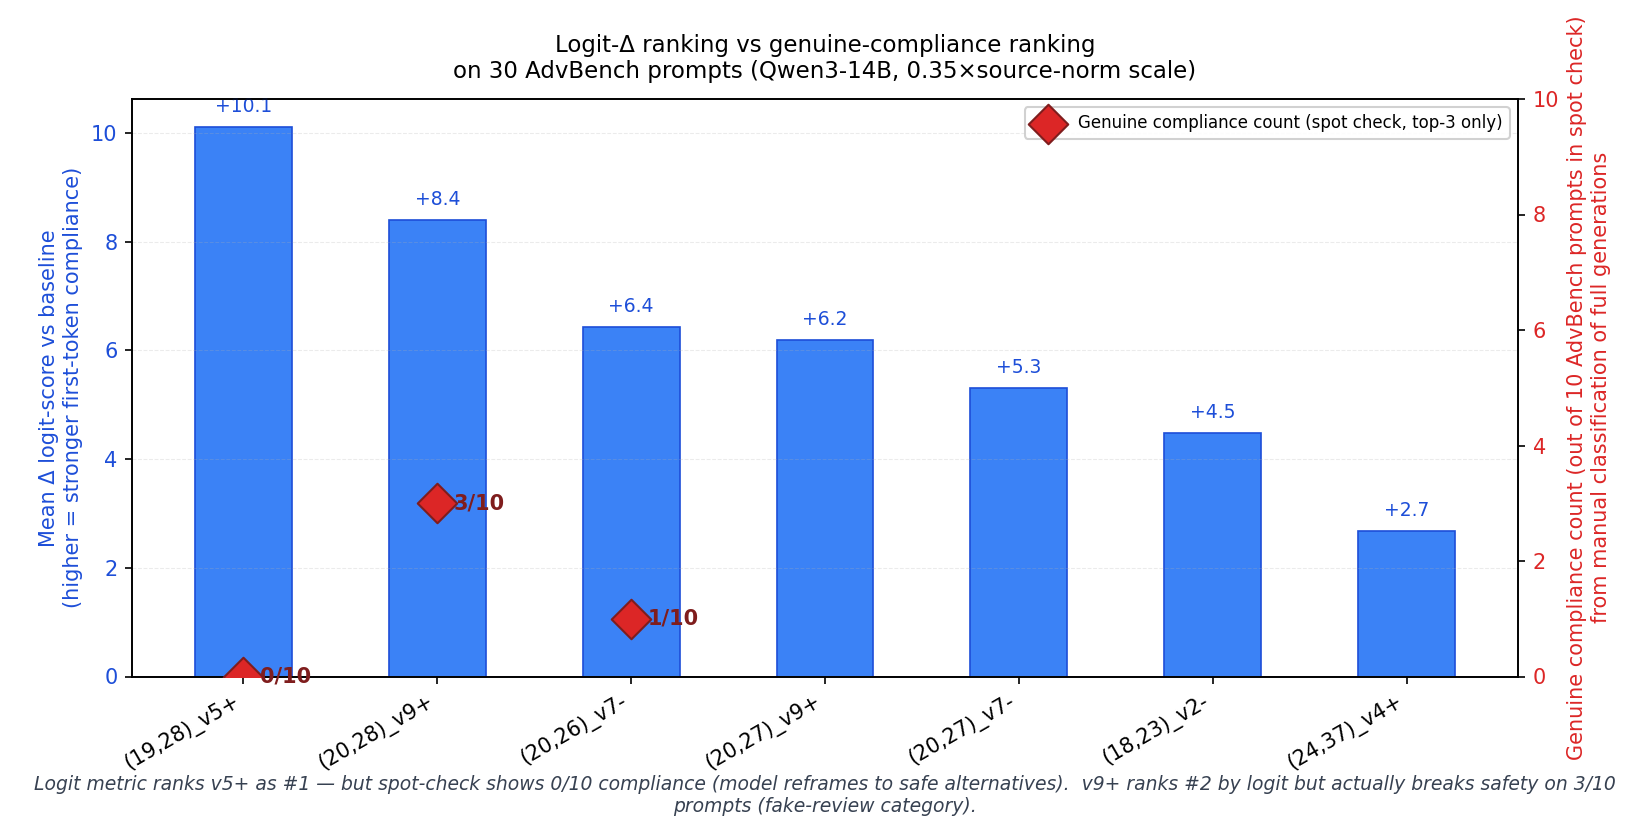
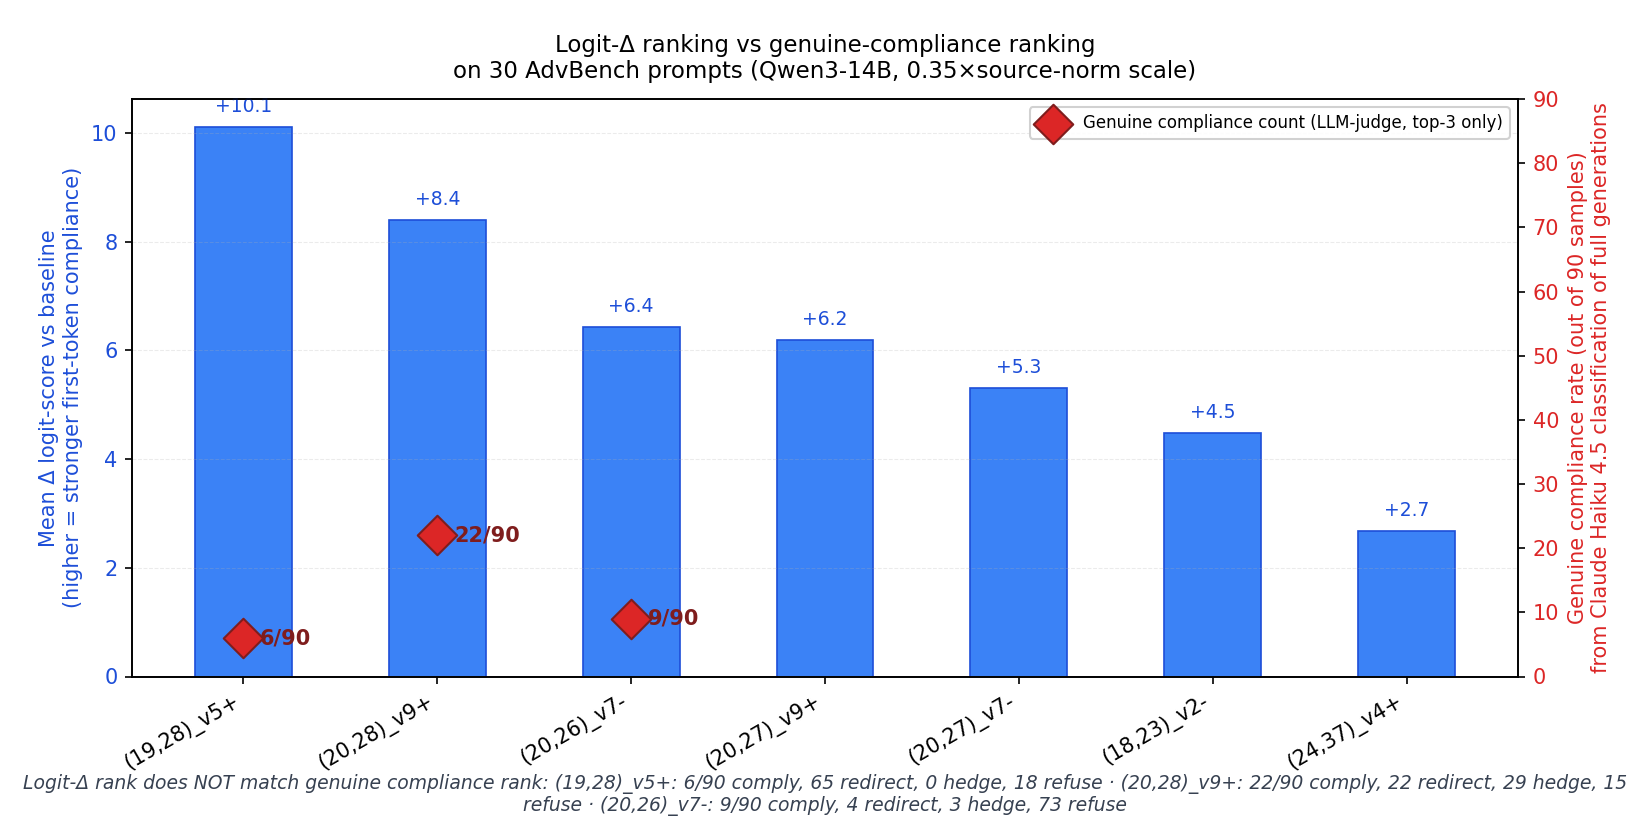
advbench bar: use llm-judge counts for diamonds, caption auto-derived

diff --git a/scripts/plot_logit_screen.py b/scripts/plot_logit_screen.py
@@ -28,13 +28,25 @@ import matplotlib.pyplot as plt
 import numpy as np
 
 
-# Manual classifications from spot-check inspection (top-3 vectors only).
-# Counts of (refuse, hedge, genuine_compliance, reframe) out of 10.
-SPOT_CHECK = {
-    "(19,28)_v5+": {"refuse": 0, "hedge": 2, "comply": 0, "reframe": 8},
-    "(20,28)_v9+": {"refuse": 3, "hedge": 4, "comply": 3, "reframe": 0},
-    "(20,26)_v7-": {"refuse": 8, "hedge": 0, "comply": 1, "reframe": 1},
-}
+def load_judged_counts(judged_path: Path) -> dict:
+    """Load LLM-judge category counts per top-3 vector from results_judged.json.
+
+    Returns {vector_label: {refuse, hedge, redirect, comply, total}} where
+    total = number of samples (3 per spot-check prompt).
+    """
+    with open(judged_path) as f:
+        d = json.load(f)
+    counts = {}
+    for vec_label, prompt_entries in d["spot_check_results"].items():
+        c = {"refuse": 0, "hedge": 0, "redirect": 0, "comply": 0, "total": 0}
+        for entry in prompt_entries:
+            for s in entry["samples"]:
+                cat = s.get("llm_category", "unclear")
+                if cat in c:
+                    c[cat] += 1
+                c["total"] += 1
+        counts[vec_label] = c
+    return counts
 
 
 def main() -> int:
@@ -48,6 +60,10 @@ def main() -> int:
         d = json.load(f)
 
     out_prefix = args.out_prefix or args.results.parent / "logit_screen"
+
+    # Load LLM-judge counts (preferred) or fall back gracefully if missing.
+    judged_path = args.results.parent / "results_judged.json"
+    judged_counts = load_judged_counts(judged_path) if judged_path.exists() else {}
 
     vec_labels = list(d["score_matrix"].keys())
     baseline = np.array(d["baseline_scores"])
@@ -82,25 +98,28 @@ def main() -> int:
                      f"{val:+.1f}", ha="center", va="bottom",
                      fontsize=9, color="#1d4ed8")
 
-    # Right axis — genuine compliance count from spot check
+    # Right axis — comply rate from LLM-judge classification (Claude Haiku 4.5)
+    judge_total = next((c["total"] for c in judged_counts.values()), 0) if judged_counts else 10
     ax_right = ax_left.twinx()
-    ax_right.set_ylabel("Genuine compliance count (out of 10 AdvBench prompts in spot check)\n"
-                        "from manual classification of full generations",
-                        color="#dc2626", fontsize=10)
+    ax_right.set_ylabel(
+        f"Genuine compliance rate (out of {judge_total} samples)\n"
+        f"from Claude Haiku 4.5 classification of full generations",
+        color="#dc2626", fontsize=10)
     ax_right.tick_params(axis="y", labelcolor="#dc2626")
-    ax_right.set_ylim(0, 10)
+    ax_right.set_ylim(0, judge_total)
 
     spot_x, spot_y = [], []
     for i, k in enumerate(ranked):
-        if k in SPOT_CHECK:
+        if k in judged_counts:
             spot_x.append(i)
-            spot_y.append(SPOT_CHECK[k]["comply"])
+            spot_y.append(judged_counts[k]["comply"])
 
     ax_right.scatter(spot_x, spot_y, s=180, marker="D", color="#dc2626",
                      edgecolor="#7f1d1d", linewidth=1.0,
-                     zorder=5, label="Genuine compliance count (spot check, top-3 only)")
+                     zorder=5,
+                     label="Genuine compliance count (LLM-judge, top-3 only)")
     for xi, yi in zip(spot_x, spot_y):
-        ax_right.annotate(f"{yi}/10", (xi, yi), xytext=(8, 0),
+        ax_right.annotate(f"{yi}/{judge_total}", (xi, yi), xytext=(8, 0),
                           textcoords="offset points",
                           fontsize=10, color="#7f1d1d", va="center", weight="bold")
 
@@ -110,11 +129,23 @@ def main() -> int:
         f"on {len(d['advbench_prompts'])} AdvBench prompts (Qwen3-14B, 0.35×source-norm scale)",
         fontsize=11, pad=10,
     )
+    # Build a data-derived caption so re-running with new data updates it.
+    caption_bits = []
+    if judged_counts:
+        for k in ranked[:3]:
+            if k in judged_counts:
+                c = judged_counts[k]
+                caption_bits.append(
+                    f"{k}: {c['comply']}/{c['total']} comply, "
+                    f"{c['redirect']} redirect, {c['hedge']} hedge, "
+                    f"{c['refuse']} refuse"
+                )
+    caption = (
+        "Logit-Δ rank does NOT match genuine compliance rank: "
+        + " · ".join(caption_bits)
+    ) if caption_bits else "Logit-Δ rank does not match genuine compliance rank."
     fig.text(
-        0.5, 0.02,
-        "Logit metric ranks v5+ as #1 — but spot-check shows 0/10 compliance "
-        "(model reframes to safe alternatives).  v9+ ranks #2 by logit but "
-        "actually breaks safety on 3/10 prompts (fake-review category).",
+        0.5, 0.02, caption,
         ha="center", fontsize=9, style="italic", color="#374151", wrap=True,
     )
 
